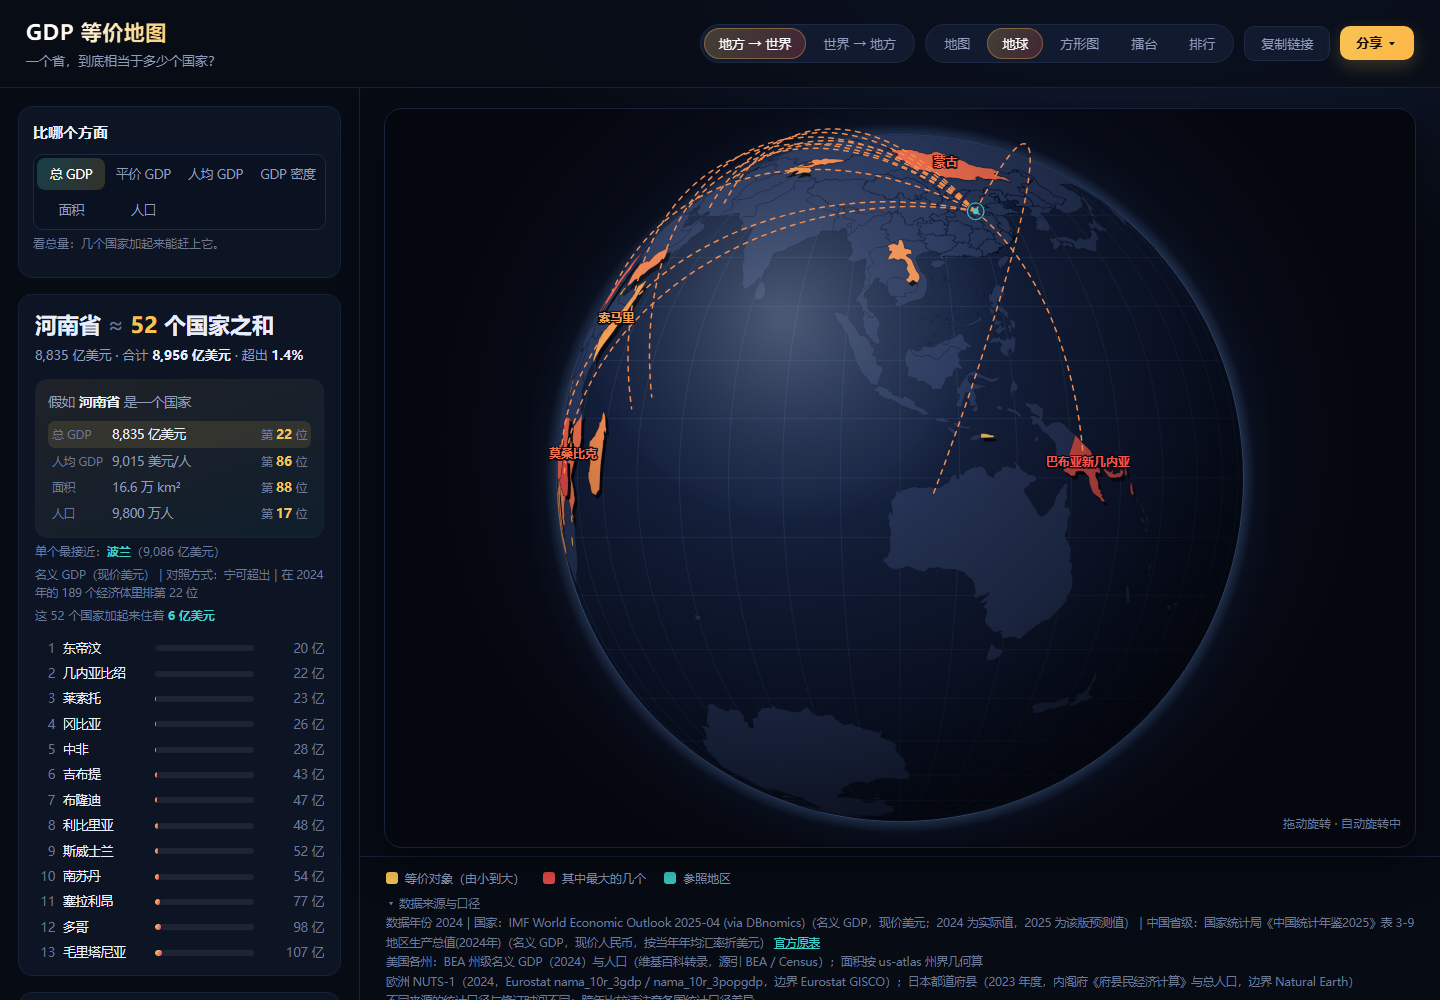
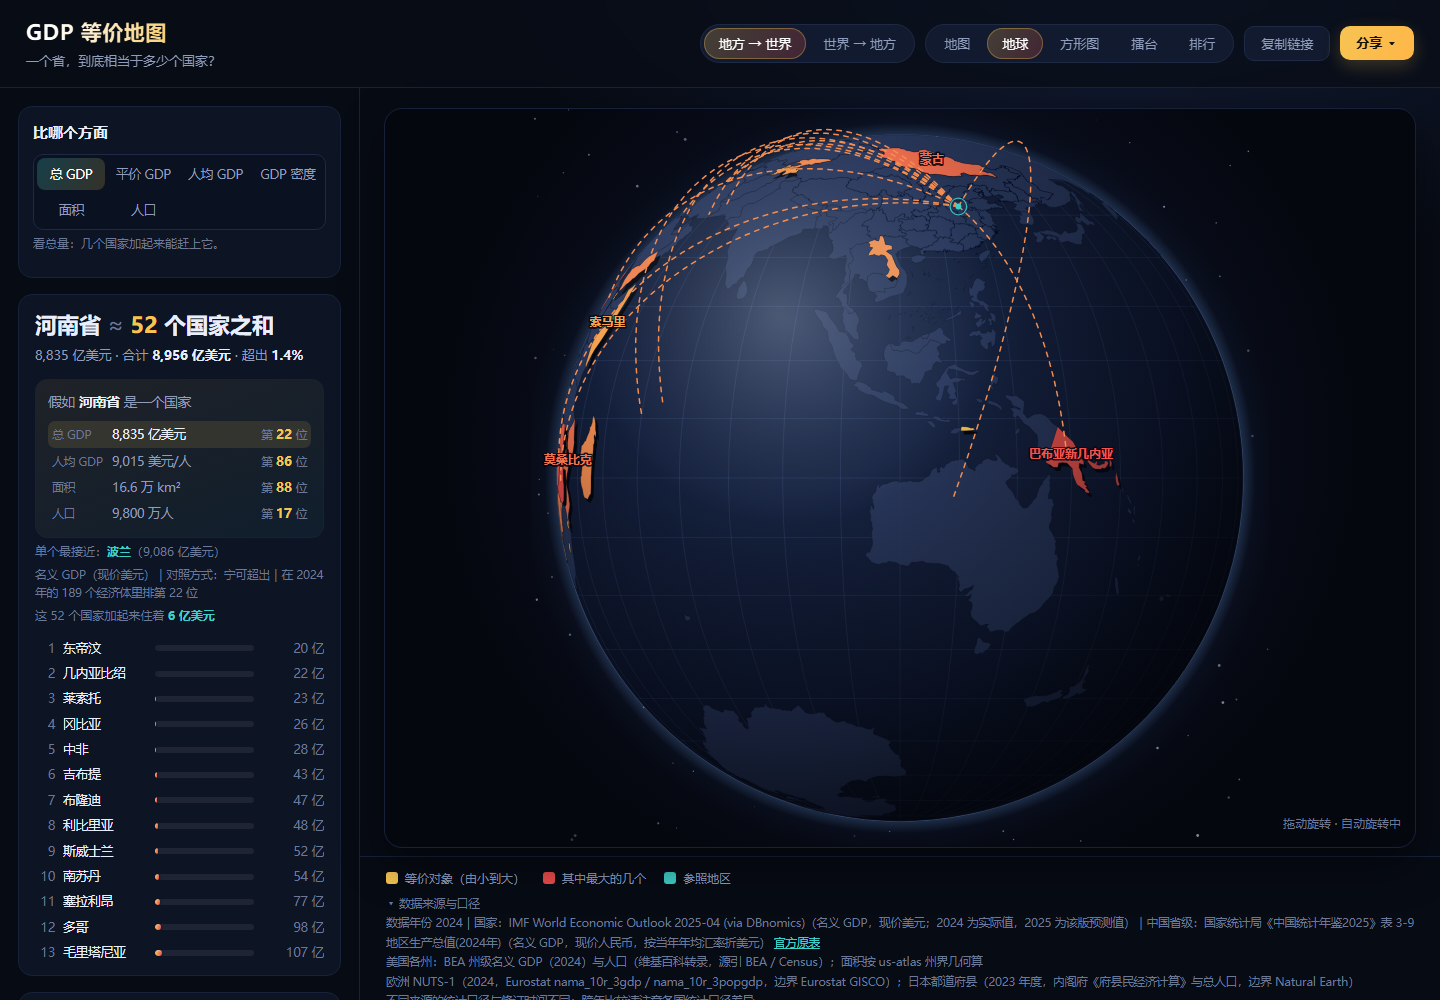
perf: run the globe at thirty frames a second and give it a sky
Measuring rather than assuming turned up something worth having: the globe was capped at eighteen frames a second, and asking why showed the render really is the expensive part - a hundred and sixty-one country paths plus the subdivisions get re-projected every frame. Asking for a full frame rate dropped the frame interval to thirty-three milliseconds, so the cap was the throttle, not the hardware.

Thirty frames a second is what it now runs at, which is noticeably better under the finger than eighteen, and the main thread is still free between frames.

The sky is a hundred and eighty fixed points, generated from a fixed seed so they do not shimmer on every turn. Only circles, no filters: the export strips filters because they are slow to rasterise, and a glow made of a filter would be missing from every exported picture.

Also wrote down why there is still no three.js, since the question is worth answering once in the repository rather than every time in review.

Changed region(s): [[0.4062, 0.124, 0.7812, 0.589], [0.375, 0.372, 0.4375, 0.558], [0.625, 0.558, 0.6875, 0.62]]

diff --git a/src/components/GlobeView.tsx b/src/components/GlobeView.tsx
@@ -55,6 +55,27 @@ export function GlobeView({ polygons, highlights, sources = new Map(), arcs = []
 
   const features = polygons.features;
 
+  /**
+   * 星空：固定的一批小点。
+   *
+   * 用固定种子生成，随机数每次渲染都一样——不然每次转都换一批星，像在闪。
+   * 只用圆点不用滤镜：导出会把 filter 属性摘掉（filters 太慢），
+   * 用滤镜做的星光在导出的图里就没了。
+   */
+  const stars = useMemo(() => {
+    let seed = 20241021;
+    const rand = () => {
+      seed = (seed * 1664525 + 1013904223) % 4294967296;
+      return seed / 4294967296;
+    };
+    return Array.from({ length: 180 }, () => ({
+      x: rand() * SIZE,
+      y: rand() * SIZE,
+      r: 0.4 + rand() * 1.15,
+      o: 0.14 + rand() * 0.46
+    }));
+  }, []);
+
   const labelTargets = useMemo(() => {
     const list: Array<{ id: string; label: string; color: string; area: number }> = [];
     for (const f of features) {
@@ -176,7 +197,9 @@ export function GlobeView({ polygons, highlights, sources = new Map(), arcs = []
   useEffect(() => {
     let raf = 0;
     let last = 0;
-    const FRAME_MS = 55; // 约 18 帧/秒，避免把主线程占满
+    // 每帧要重算 261 条路径的球面坐标，实测满帧只能跑 30 fps，
+    // 所以节流到 30 帧：拖动时明显比原来的 18 帧跟手，又不至于把主线程占满。
+    const FRAME_MS = 33;
     const tick = (now: number) => {
       raf = requestAnimationFrame(tick);
       if (now - last < FRAME_MS) return;
@@ -275,6 +298,13 @@ export function GlobeView({ polygons, highlights, sources = new Map(), arcs = []
             <feGaussianBlur stdDeviation="3" />
           </filter>
         </defs>
+
+        {/* 星空 */}
+        <g className="globe-stars">
+          {stars.map((s, i) => (
+            <circle key={i} cx={s.x} cy={s.y} r={s.r} fill={`rgba(214,228,255,${s.o.toFixed(2)})`} />
+          ))}
+        </g>
 
         {/* 大气：外圈的光晕 + 贴着球的一层 */}
         <circle cx={SIZE / 2} cy={SIZE / 2} r={RADIUS + ATMO * 1.5} fill="url(#globe-halo)" />

diff --git a/AGENTS.md b/AGENTS.md
@@ -139,7 +139,11 @@
 - **IMF 官网直连也是 403。** IMF WEO 走 DBnomics 镜像（`api.db.nomics.world`）。
 - **导出前必须摘掉 SVG 上的滤镜。** 逐路径高斯模糊会让栅格化慢到页面假死（105 个高亮路径时实测会卡）。
   `src/lib/export.ts` 里已经做了 `clone.querySelectorAll('[filter]')` 的清理。
-- **地球每帧要重算 402 条路径**（世界去中国 + 中国省 + 美国州 + 欧洲与日本的细分层），所以做了节流（约 18 帧/秒），别去掉。
+- **地球每帧要重算 402 条路径**（世界去中国 + 中国省 + 美国州 + 欧洲与日本的细分层）。
+  实测：满帧只能跑 30 fps，所以节流到 30 帧/秒（`FRAME_MS = 33`），别去掉。
+  ⚠ 这也是**不上 three.js 的原因**：WebGL 能把投影搬上 GPU 跑到 60 fps，
+  但导出（分享卡 / 高清图 / 动图）全靠「克隆 SVG 再栅格化」，WebGL 的画面没法序列化成 SVG，
+  只能维护两套渲染器、导出的图跟屏幕还不一样。详见 README「为什么不用 three.js」。
 - **3D 弧线不能横穿球体。** 正射投影在背面返回 null，那一段必须断开成新的子路径，
   否则两点会被直接连成一条横穿地图的直线（这正是「虚线对不上地点」的成因）。
   `src/components/GlobeView.tsx` 里按可见片段拼 `M…L…` 多段子路径。
